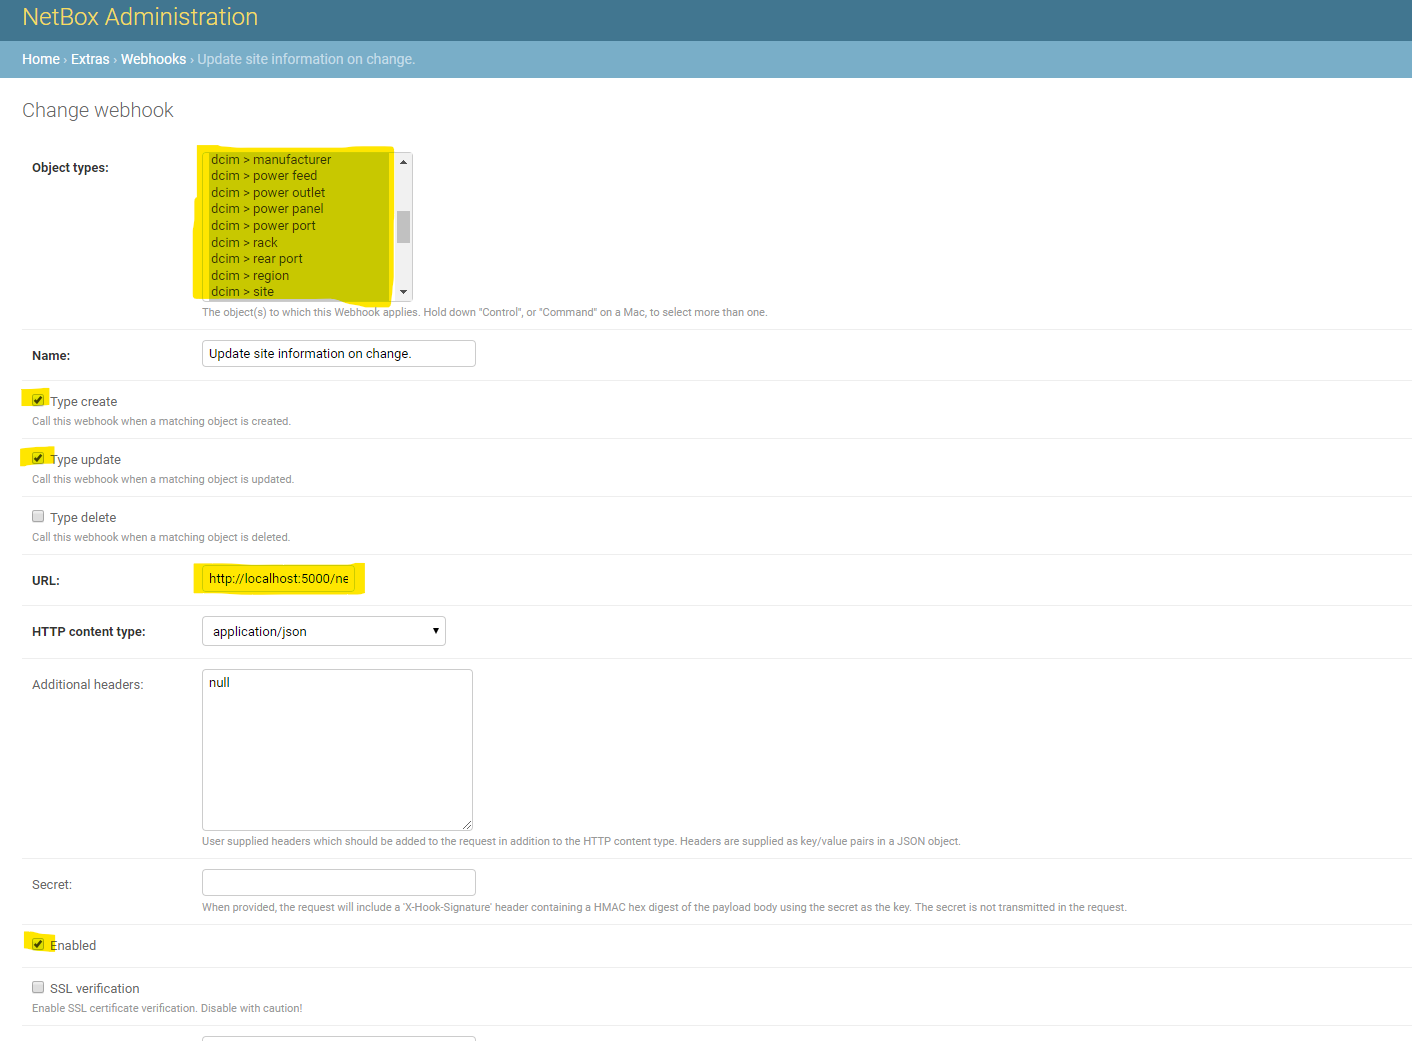
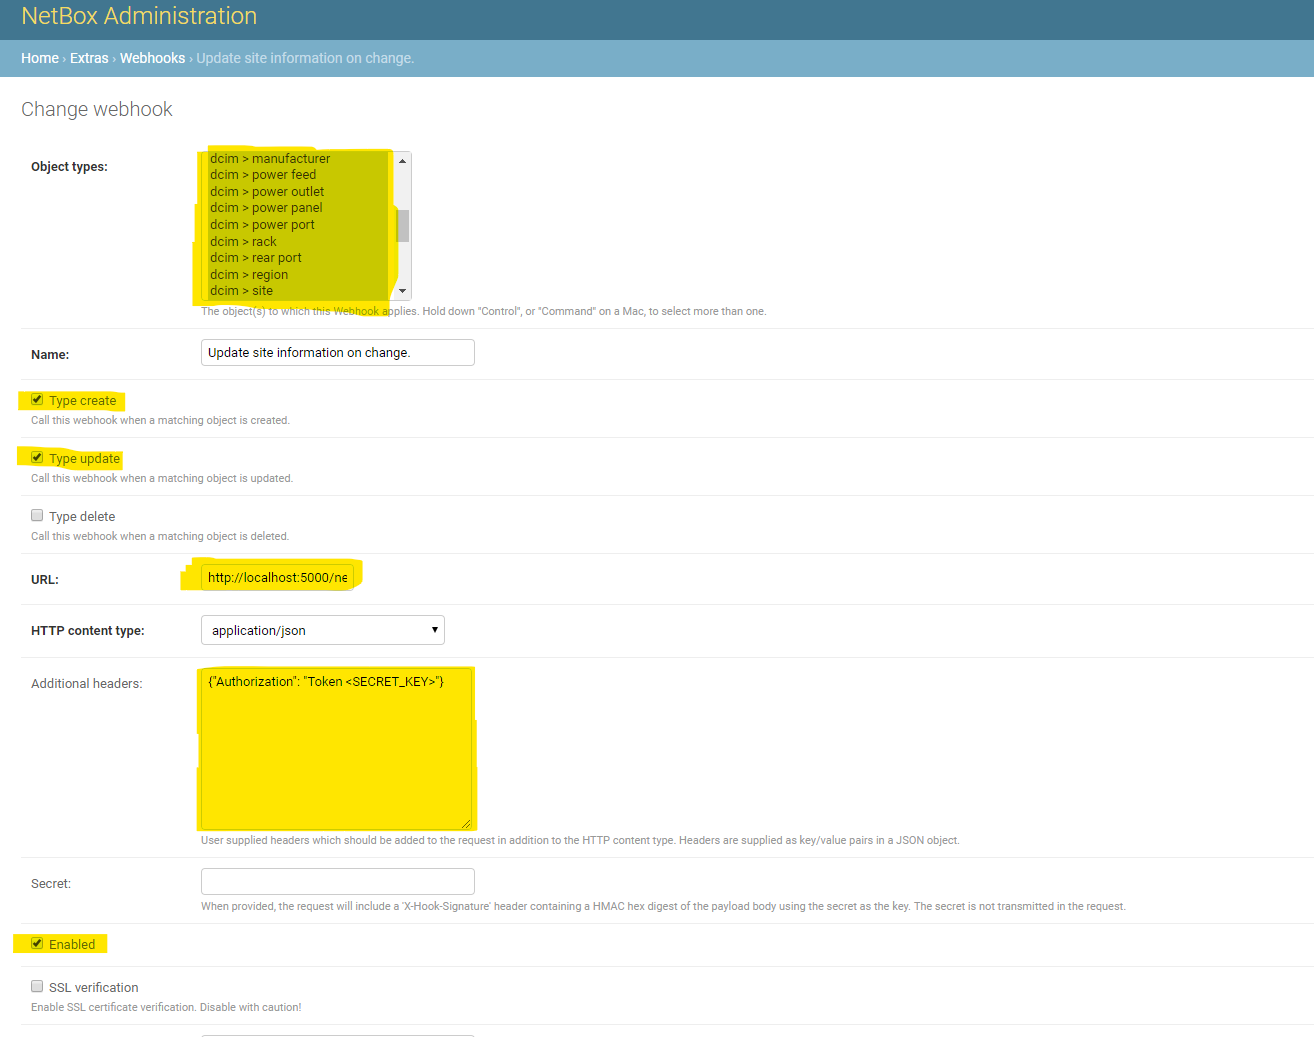
Doc fixes.

diff --git a/deploy/README.rst b/deploy/README.rst
@@ -11,18 +11,32 @@ Quick start
 
 1. Add "Django-NetBox-Confluence" to your INSTALLED_APPS setting like this::
 
-   INSTALLED_APPS = [
-       ...
-       'django_netbox_confluence',
-   ]
+    INSTALLED_APPS = [
+        ...,
+        'django_netbox_confluence',
+    ]
 
 2. Include the netbox-wiki URLconf in your project urls.py like this::
 
-   path('netbox-wiki-api/', include('django_netbox_confluence.urls')),
+    path('netbox-wiki-api/', include('django_netbox_confluence.urls'))
 
-3. Run `python manage.py migrate` to create the Django-NetBox-Confluence models.
 
-4. Start the development server and visit http://127.0.0.1:8000/admin/
-   to create a configuration (you'll need the Admin app enabled).
+3. Add confluence credentials settings and space key where the data will be stored variables in your Django settings file.
 
-5. Use http://127.0.0.1:8000/netbox-wiki/model_change_trigger as NetBox webhook endpoint URL field input.
+    DNC_CONFLUENCE_CREDENTIALS = {
+        'url': 'http://localhost:8090',
+        'username': 'admin',
+        'password': 'admin'
+
+    }
+
+    DNC_SPACE_KEY = 'NETBOX'
+
+    DNC_WEBHOOK_TOKEN = "<SECRET_KEY>"
+
+4. Run `python manage.py migrate` to create the Django-NetBox-Confluence models.
+
+5. Start the development server and visit http://127.0.0.1:8000/admin/
+   to create a configuration (you'll need the Admin app enabled). Set authorization header: {"Authorization": "Token <SECRET_KEY>"}.
+
+6. Use http://127.0.0.1:8000/netbox-wiki/model_change_trigger as NetBox webhook endpoint URL field input.

diff --git a/README.md b/README.md
@@ -46,6 +46,8 @@ DNC_CONFLUENCE_CREDENTIALS = {
 }
 
 DNC_SPACE_KEY = 'NETBOX'
+
+DNC_WEBHOOK_TOKEN = "<SECRET_KEY>"
 ```
 > ##### *NOTE: If the space doesn't exist it will be created automatically when the first webhook fires.*
 
